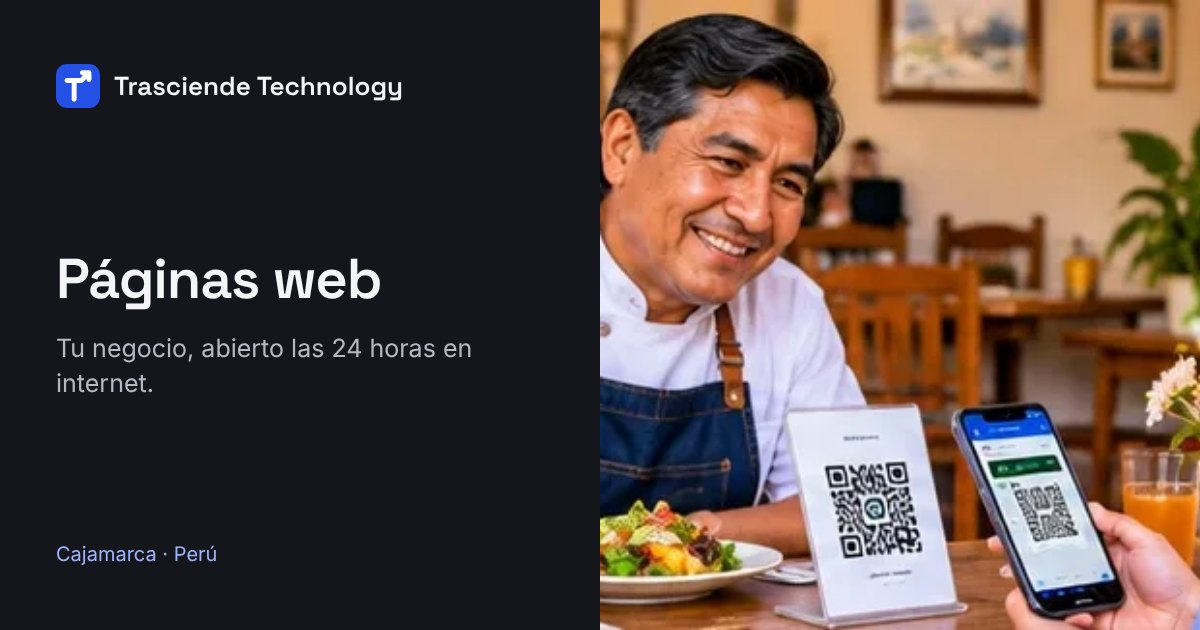
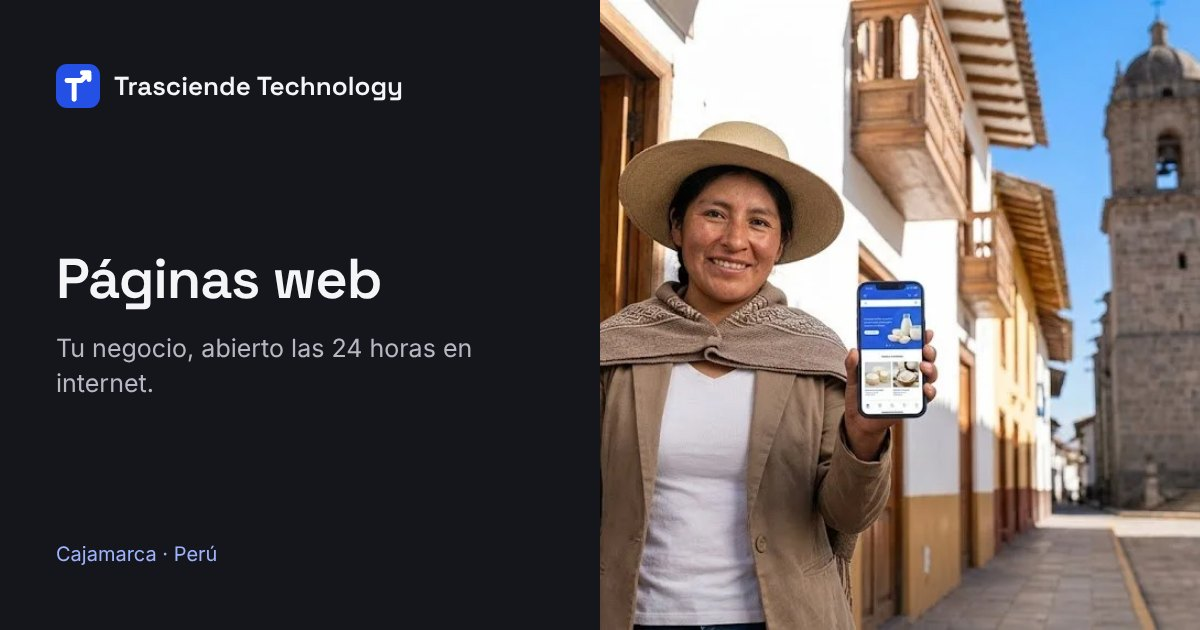
Nuevas fotos de Cajamarca en la página de Páginas web
Claude-Session: https://claude.ai/code/session_01VzWZn4JSzKTUWU45RsgEjn

diff --git a/servicios/paginas-web/index.html b/servicios/paginas-web/index.html
@@ -101,7 +101,7 @@ h1,h2,h3{font-family:var(--display);letter-spacing:-.02em;margin:0;text-wrap:bal
 .fotos{max-width:var(--ancho);margin:56px auto 0;display:grid;grid-template-columns:repeat(3,1fr);gap:20px}
 @media(max-width:760px){.fotos{grid-template-columns:1fr;max-width:520px}}
 .fotos figure{margin:0;min-width:0;border-radius:18px;overflow:hidden}
-.fotos img{width:100%;aspect-ratio:3/2;object-fit:cover;border-radius:18px;display:block}
+.fotos img{width:100%;height:auto;aspect-ratio:3/2;object-fit:cover;border-radius:18px;display:block}
 
 
 /* franja de confianza, discreta */
@@ -301,7 +301,7 @@ details p{margin:0 0 18px;font-size:16px;line-height:1.6;color:var(--texto-2)}
     <a class="boton" href="https://wa.me/51971980366?text=Hola%20Trasciende%2C%20quiero%20informaci%C3%B3n%20sobre%20P%C3%A1ginas%20web" target="_blank" rel="noopener">Cotiza por WhatsApp</a>
   </div>
   <div class="media">
-    <img src="/img/web.webp" alt="Dueño de restaurante en Cajamarca mostrando el menú digital mediante un código QR">
+    <img src="/img/pw-quesera.webp" alt="Emprendedora de una tienda de quesos de Cajamarca mostrando la web de su negocio en el celular, en una calle del centro histórico">
   </div>
 </section>
 
@@ -345,6 +345,7 @@ details p{margin:0 0 18px;font-size:16px;line-height:1.6;color:var(--texto-2)}
   <h2 style="font-size:clamp(28px,4vw,42px)">Lista en unos 5 días hábiles.</h2>
   <p class="sub">El plazo corre desde que nos envías tus textos, fotos y logo. Antes de publicar, ves cómo quedará y nos pides los ajustes.</p>
   <ul class="chips"><li>Restaurantes y cafeterías</li><li>Tiendas y bodegas</li><li>Hoteles y hospedajes</li><li>Consultorios y estudios</li><li>Talleres y servicios</li><li>Profesionales independientes</li></ul>
+  <div class="fotos"><figure><img src="/img/pw-restaurante-qr.webp" width="1024" height="572" loading="lazy" alt="Cliente escaneando el código QR de la carta en un restaurante con vista a la plaza"></figure><figure><img src="/img/pw-hospedaje.webp" width="1024" height="572" loading="lazy" alt="Administradora de un hospedaje campestre de Cajamarca revisando la web de su negocio en una laptop"></figure><figure><img src="/img/pw-asesoria.webp" width="1024" height="572" loading="lazy" alt="Asesor de Trasciende mostrando el diseño de una web a una dueña de negocio en un café"></figure></div>
 </section>
 
 <section class="promo" style="padding-bottom:0">

diff --git a/index.html b/index.html
@@ -101,7 +101,7 @@ h1,h2,h3{font-family:var(--display);letter-spacing:-.02em;margin:0;text-wrap:bal
 .fotos{max-width:var(--ancho);margin:56px auto 0;display:grid;grid-template-columns:repeat(3,1fr);gap:20px}
 @media(max-width:760px){.fotos{grid-template-columns:1fr;max-width:520px}}
 .fotos figure{margin:0;min-width:0;border-radius:18px;overflow:hidden}
-.fotos img{width:100%;aspect-ratio:3/2;object-fit:cover;border-radius:18px;display:block}
+.fotos img{width:100%;height:auto;aspect-ratio:3/2;object-fit:cover;border-radius:18px;display:block}
 
 
 /* franja de confianza, discreta */

diff --git a/servicios/apps-y-plataformas/index.html b/servicios/apps-y-plataformas/index.html
@@ -101,7 +101,7 @@ h1,h2,h3{font-family:var(--display);letter-spacing:-.02em;margin:0;text-wrap:bal
 .fotos{max-width:var(--ancho);margin:56px auto 0;display:grid;grid-template-columns:repeat(3,1fr);gap:20px}
 @media(max-width:760px){.fotos{grid-template-columns:1fr;max-width:520px}}
 .fotos figure{margin:0;min-width:0;border-radius:18px;overflow:hidden}
-.fotos img{width:100%;aspect-ratio:3/2;object-fit:cover;border-radius:18px;display:block}
+.fotos img{width:100%;height:auto;aspect-ratio:3/2;object-fit:cover;border-radius:18px;display:block}
 
 
 /* franja de confianza, discreta */

diff --git a/servicios/arranque-digital/index.html b/servicios/arranque-digital/index.html
@@ -101,7 +101,7 @@ h1,h2,h3{font-family:var(--display);letter-spacing:-.02em;margin:0;text-wrap:bal
 .fotos{max-width:var(--ancho);margin:56px auto 0;display:grid;grid-template-columns:repeat(3,1fr);gap:20px}
 @media(max-width:760px){.fotos{grid-template-columns:1fr;max-width:520px}}
 .fotos figure{margin:0;min-width:0;border-radius:18px;overflow:hidden}
-.fotos img{width:100%;aspect-ratio:3/2;object-fit:cover;border-radius:18px;display:block}
+.fotos img{width:100%;height:auto;aspect-ratio:3/2;object-fit:cover;border-radius:18px;display:block}
 
 
 /* franja de confianza, discreta */

diff --git a/servicios/publicacion-en-tiendas/index.html b/servicios/publicacion-en-tiendas/index.html
@@ -101,7 +101,7 @@ h1,h2,h3{font-family:var(--display);letter-spacing:-.02em;margin:0;text-wrap:bal
 .fotos{max-width:var(--ancho);margin:56px auto 0;display:grid;grid-template-columns:repeat(3,1fr);gap:20px}
 @media(max-width:760px){.fotos{grid-template-columns:1fr;max-width:520px}}
 .fotos figure{margin:0;min-width:0;border-radius:18px;overflow:hidden}
-.fotos img{width:100%;aspect-ratio:3/2;object-fit:cover;border-radius:18px;display:block}
+.fotos img{width:100%;height:auto;aspect-ratio:3/2;object-fit:cover;border-radius:18px;display:block}
 
 
 /* franja de confianza, discreta */

diff --git a/servicios/ruta-ssoma/index.html b/servicios/ruta-ssoma/index.html
@@ -101,7 +101,7 @@ h1,h2,h3{font-family:var(--display);letter-spacing:-.02em;margin:0;text-wrap:bal
 .fotos{max-width:var(--ancho);margin:56px auto 0;display:grid;grid-template-columns:repeat(3,1fr);gap:20px}
 @media(max-width:760px){.fotos{grid-template-columns:1fr;max-width:520px}}
 .fotos figure{margin:0;min-width:0;border-radius:18px;overflow:hidden}
-.fotos img{width:100%;aspect-ratio:3/2;object-fit:cover;border-radius:18px;display:block}
+.fotos img{width:100%;height:auto;aspect-ratio:3/2;object-fit:cover;border-radius:18px;display:block}
 
 
 /* franja de confianza, discreta */

diff --git a/servicios/tramites-para-emprender/index.html b/servicios/tramites-para-emprender/index.html
@@ -101,7 +101,7 @@ h1,h2,h3{font-family:var(--display);letter-spacing:-.02em;margin:0;text-wrap:bal
 .fotos{max-width:var(--ancho);margin:56px auto 0;display:grid;grid-template-columns:repeat(3,1fr);gap:20px}
 @media(max-width:760px){.fotos{grid-template-columns:1fr;max-width:520px}}
 .fotos figure{margin:0;min-width:0;border-radius:18px;overflow:hidden}
-.fotos img{width:100%;aspect-ratio:3/2;object-fit:cover;border-radius:18px;display:block}
+.fotos img{width:100%;height:auto;aspect-ratio:3/2;object-fit:cover;border-radius:18px;display:block}
 
 
 /* franja de confianza, discreta */

diff --git a/404.html b/404.html
@@ -85,7 +85,7 @@ h1,h2,h3{font-family:var(--display);letter-spacing:-.02em;margin:0;text-wrap:bal
 .fotos{max-width:var(--ancho);margin:56px auto 0;display:grid;grid-template-columns:repeat(3,1fr);gap:20px}
 @media(max-width:760px){.fotos{grid-template-columns:1fr;max-width:520px}}
 .fotos figure{margin:0;min-width:0;border-radius:18px;overflow:hidden}
-.fotos img{width:100%;aspect-ratio:3/2;object-fit:cover;border-radius:18px;display:block}
+.fotos img{width:100%;height:auto;aspect-ratio:3/2;object-fit:cover;border-radius:18px;display:block}
 
 
 /* franja de confianza, discreta */
